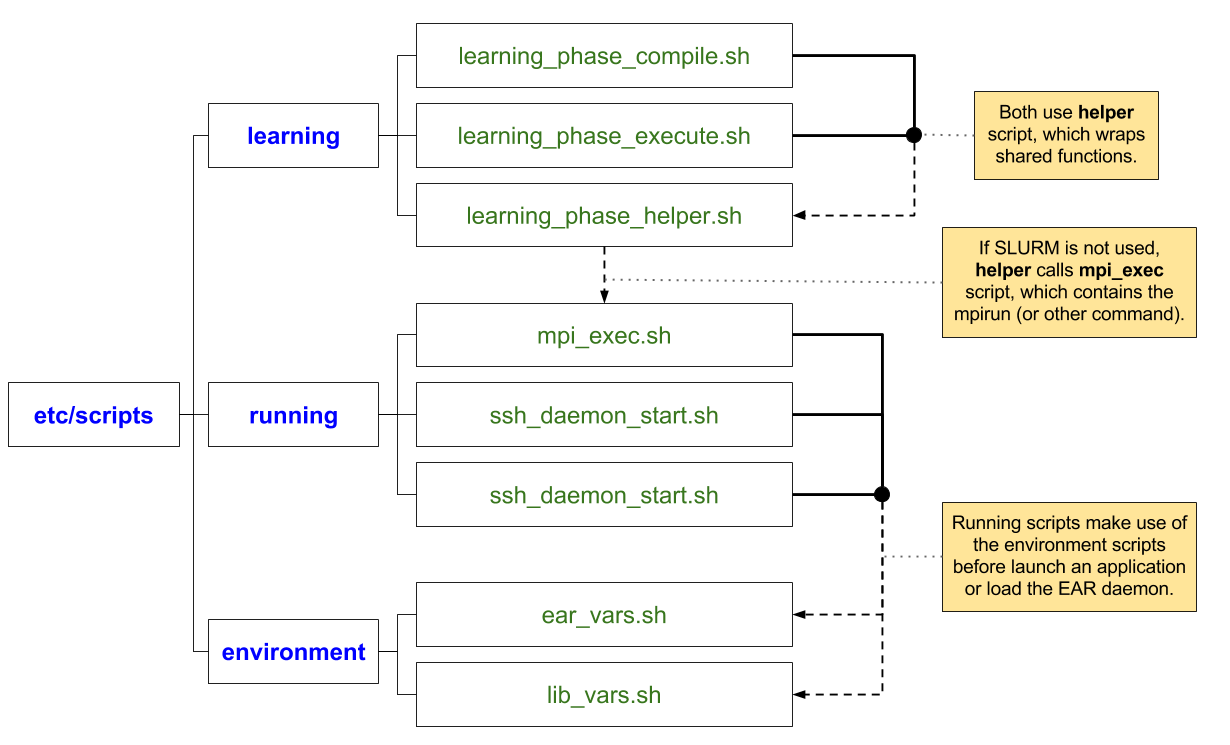
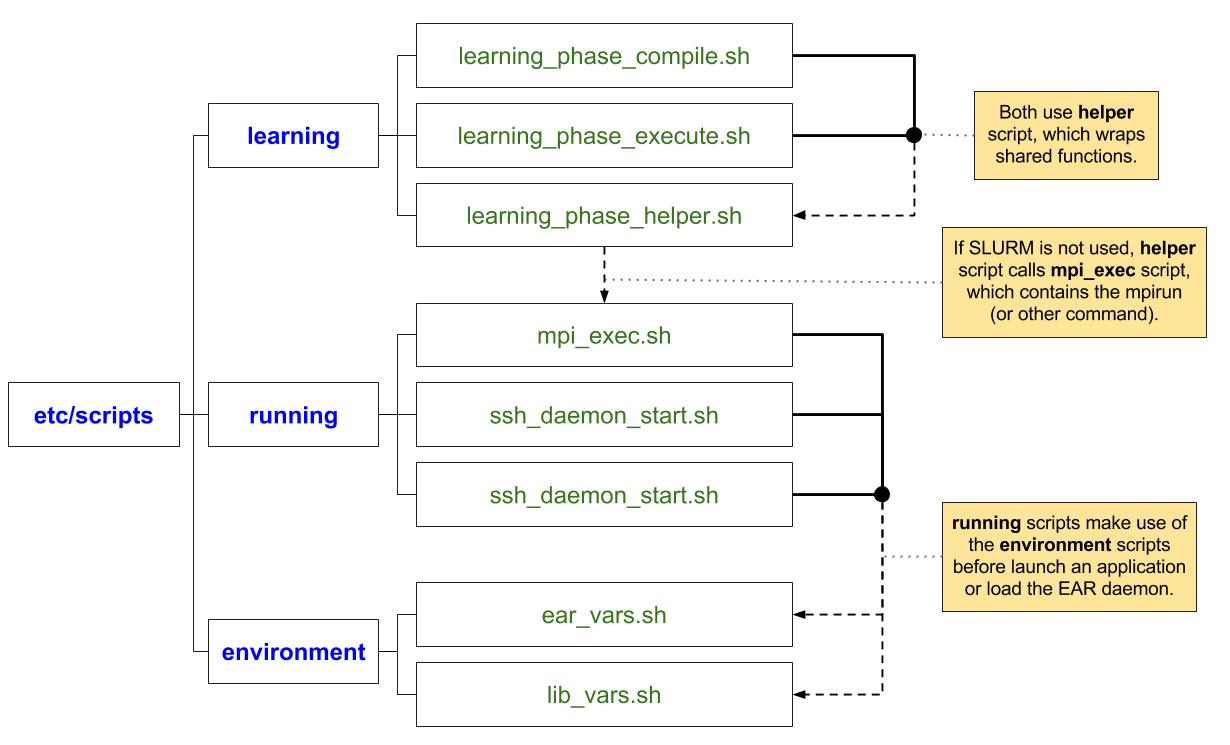
Updated READMEs.

Changed region(s): [[0.7724, 0.3087, 0.9886, 0.4631], [0.7724, 0.6792, 0.9577, 0.7409]]

diff --git a/README.md b/README.md
@@ -47,8 +47,8 @@ Configure is based on shell variables which initial value could be given by sett
 | Variable | Description                                                                                                  |
 | -------- | ------------------------------------------------------------------------------------------------------------ |
 | DEBUG    | Enables debug messages [0..4]. Debug messages with lower or equal level are printed.                         |
-| CC       | C compiler command.                                                                                          |
 | MPICC    | MPI compiler command.                                                                                        |
+| CC       | C compiler command.                                                                                          |
 | CFLAGS   | C compiler flags.                                                                                            |
 | LDFLAGS  | Linker flags. E.g. ‘-L\<lib dir\>’ if you have libraries in a nonstandard directory \<lib dir\>.             |
 | LIBS     | Libraries to pass to the linker. E.g. ‘-l<library>’.                                                         |
@@ -89,7 +89,7 @@ After the installation
 ----------------------
 First of all, make sure your linker is aware of the required libraries and the environment variable *EAR_INSTALL_PATH* is set. This variable defines the folder of EAR binaries, libraries and tools. For the ease of use, an **environment module** is also configured next to the EAR compilation. So locate in `autootools` folder the module file with name `ear-{version}`, and copy it to your module collection folder (e.g. `cp autotools/ear-1.0 /hpc/base/ctt/modulefiles/libraries`).
 
-After the that, you need to pass the learning phase in all your computing nodes, so you will have to visit [EAR learning phase page](https://github.com/BarcelonaSupercomputingCenter/EAR/blob/development/src/learning/README.md) to follow its guide.
+After that, you need to pass the learning phase in all your computing nodes, so you will have to visit [EAR learning phase page](https://github.com/BarcelonaSupercomputingCenter/EAR/blob/development/src/learning/README.md) to follow its guide.
 
 Finally, you can launch any MPI application next to Energy Aware Runtime library. You will find a complete user guide in [EAR library page](https://github.com/BarcelonaSupercomputingCenter/EAR/blob/development/src/library/README.md).
 

diff --git a/src/learning/README.md b/src/learning/README.md
@@ -48,9 +48,9 @@ export EAR_SRC_PATH=$HOME/git/EAR
 
 Testing benchmarks
 ------------------
-Once compiled, execute a test in a computing node. If you're using SLURM, launch a command like `srun -N1 -n1 --exclusive learning_phase_compile.sh test`, allocating a single but complete computing node (because the script will open new threads as it needs).
+Once compiled, execute a test in a computing node. **If you're using SLURM**, launch a command like `srun -N1 -n1 --exclusive learning_phase_compile.sh test`, allocating a single but complete computing node (because the script will open new threads as it needs).
 
-If you are doing it manually, follow the following steps:
+**If you are doing it manually**, follow the following steps:
 1) Open the script `learning_phase_helper` and look for these lines:
 ```
 function launching
